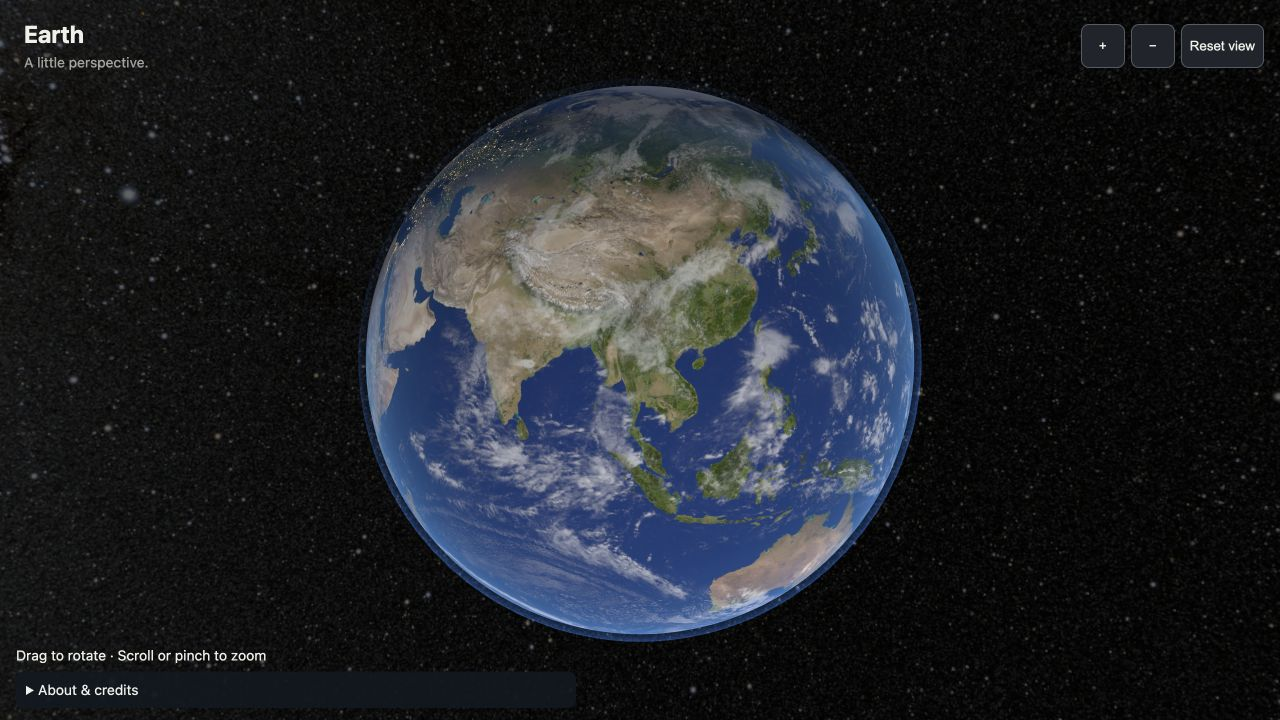
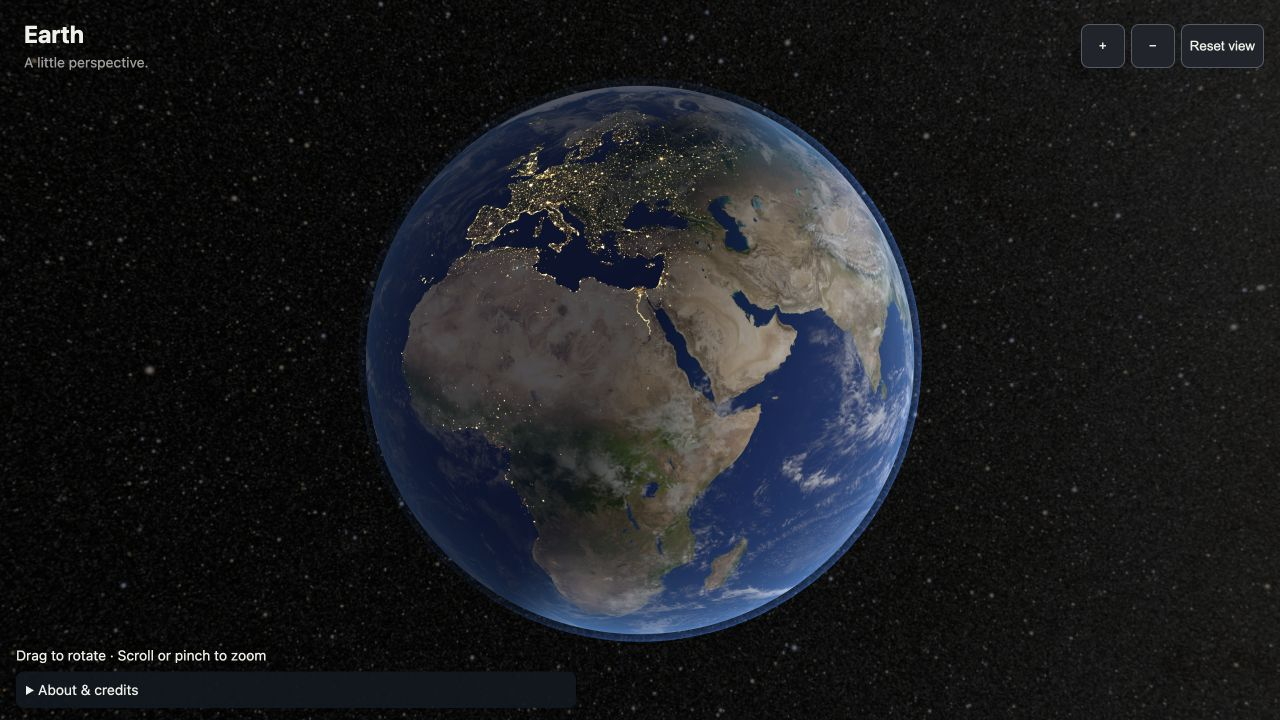
Show daylight and city lights in globe preview

diff --git a/README.md b/README.md
@@ -6,7 +6,7 @@ Includes Earth textures, day/night lighting, city lights, clouds, atmosphere, a 
 
 No npm install, map API key, or paid map service is required by the generated globe. You need Codex or Claude Code to use the skill, and a browser with WebGL 2 to view the result. Git is needed for the clone commands below. Python 3 is useful for local previews; another static HTTP server also works.
 
-![Interactive Earth globe showing Asia, clouds, and the star-filled sky](docs/globe-preview.jpg)
+![Interactive Earth globe showing European city lights alongside daylight over Africa and the Middle East](docs/globe-preview.jpg)
 
 *The bundled globe starter. Imagery credits: Solar System Scope; NASA/Goddard SVS; ESA/Gaia/DPAC. See [third-party notices](THIRD_PARTY_NOTICES.md).*
 
